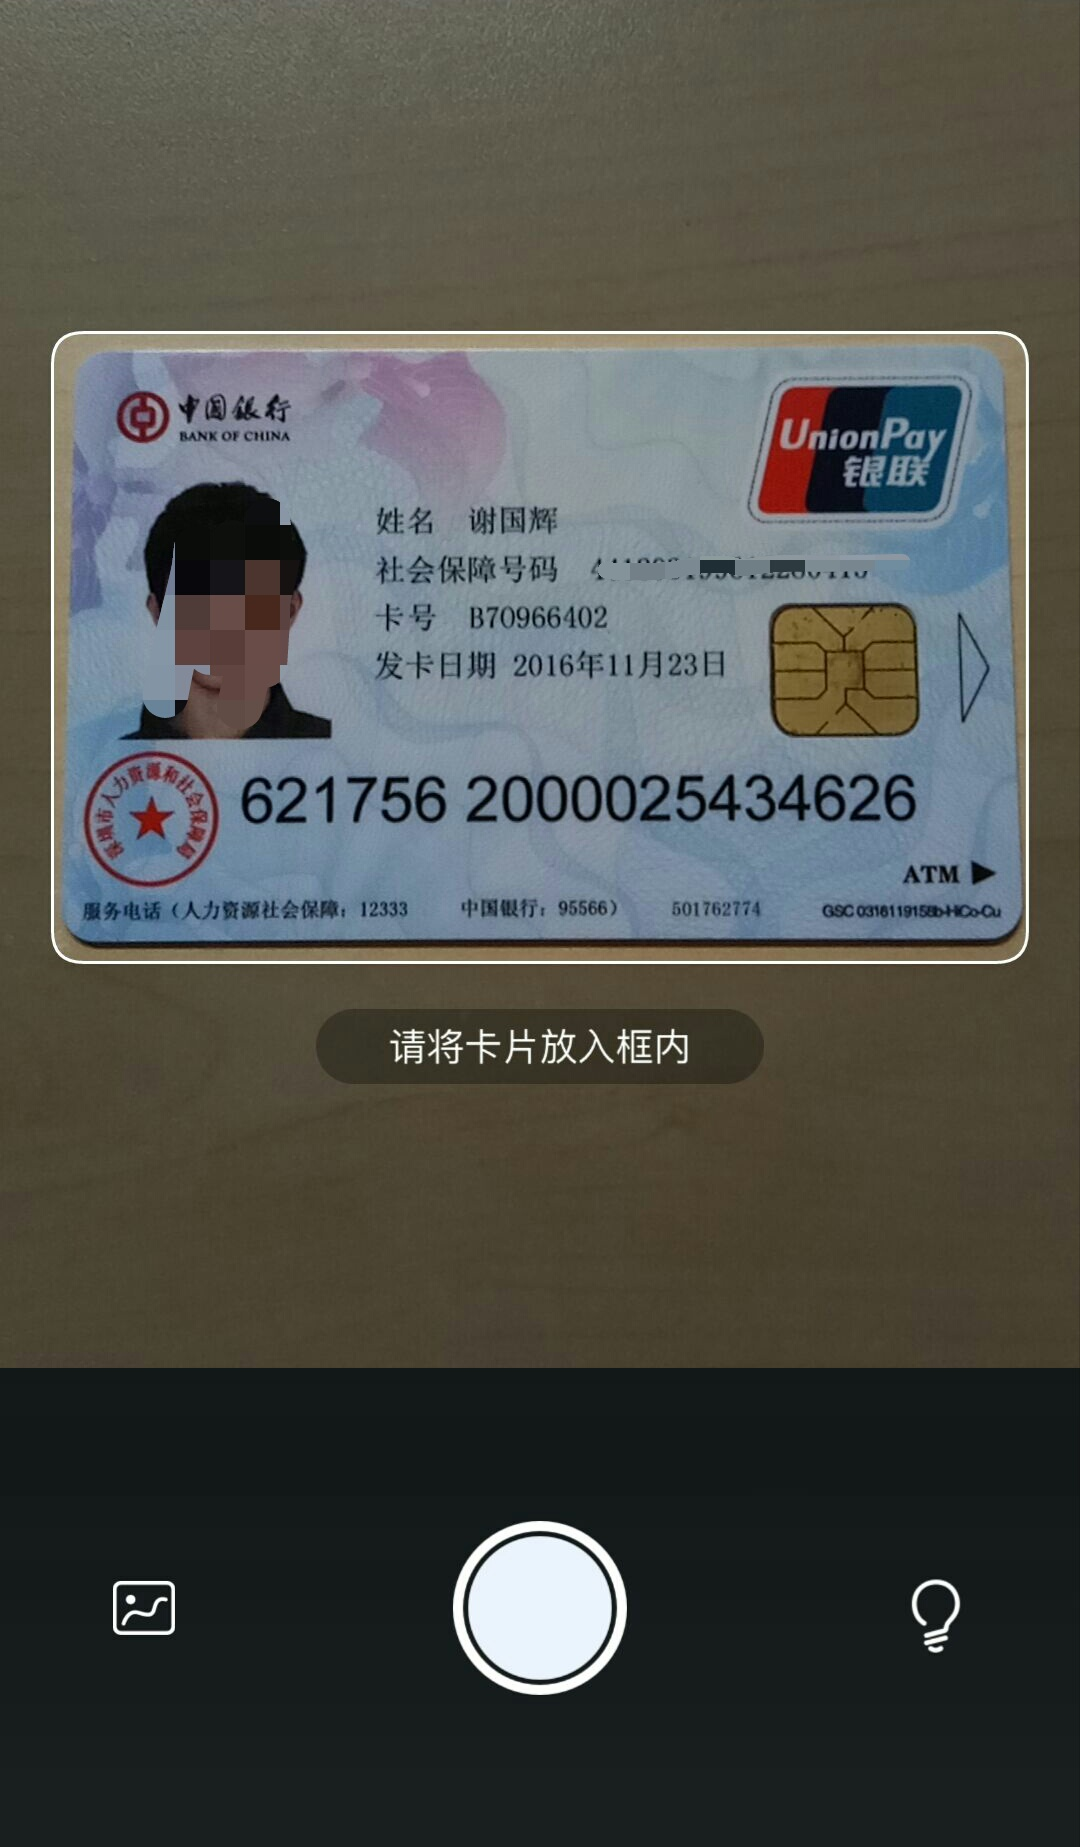
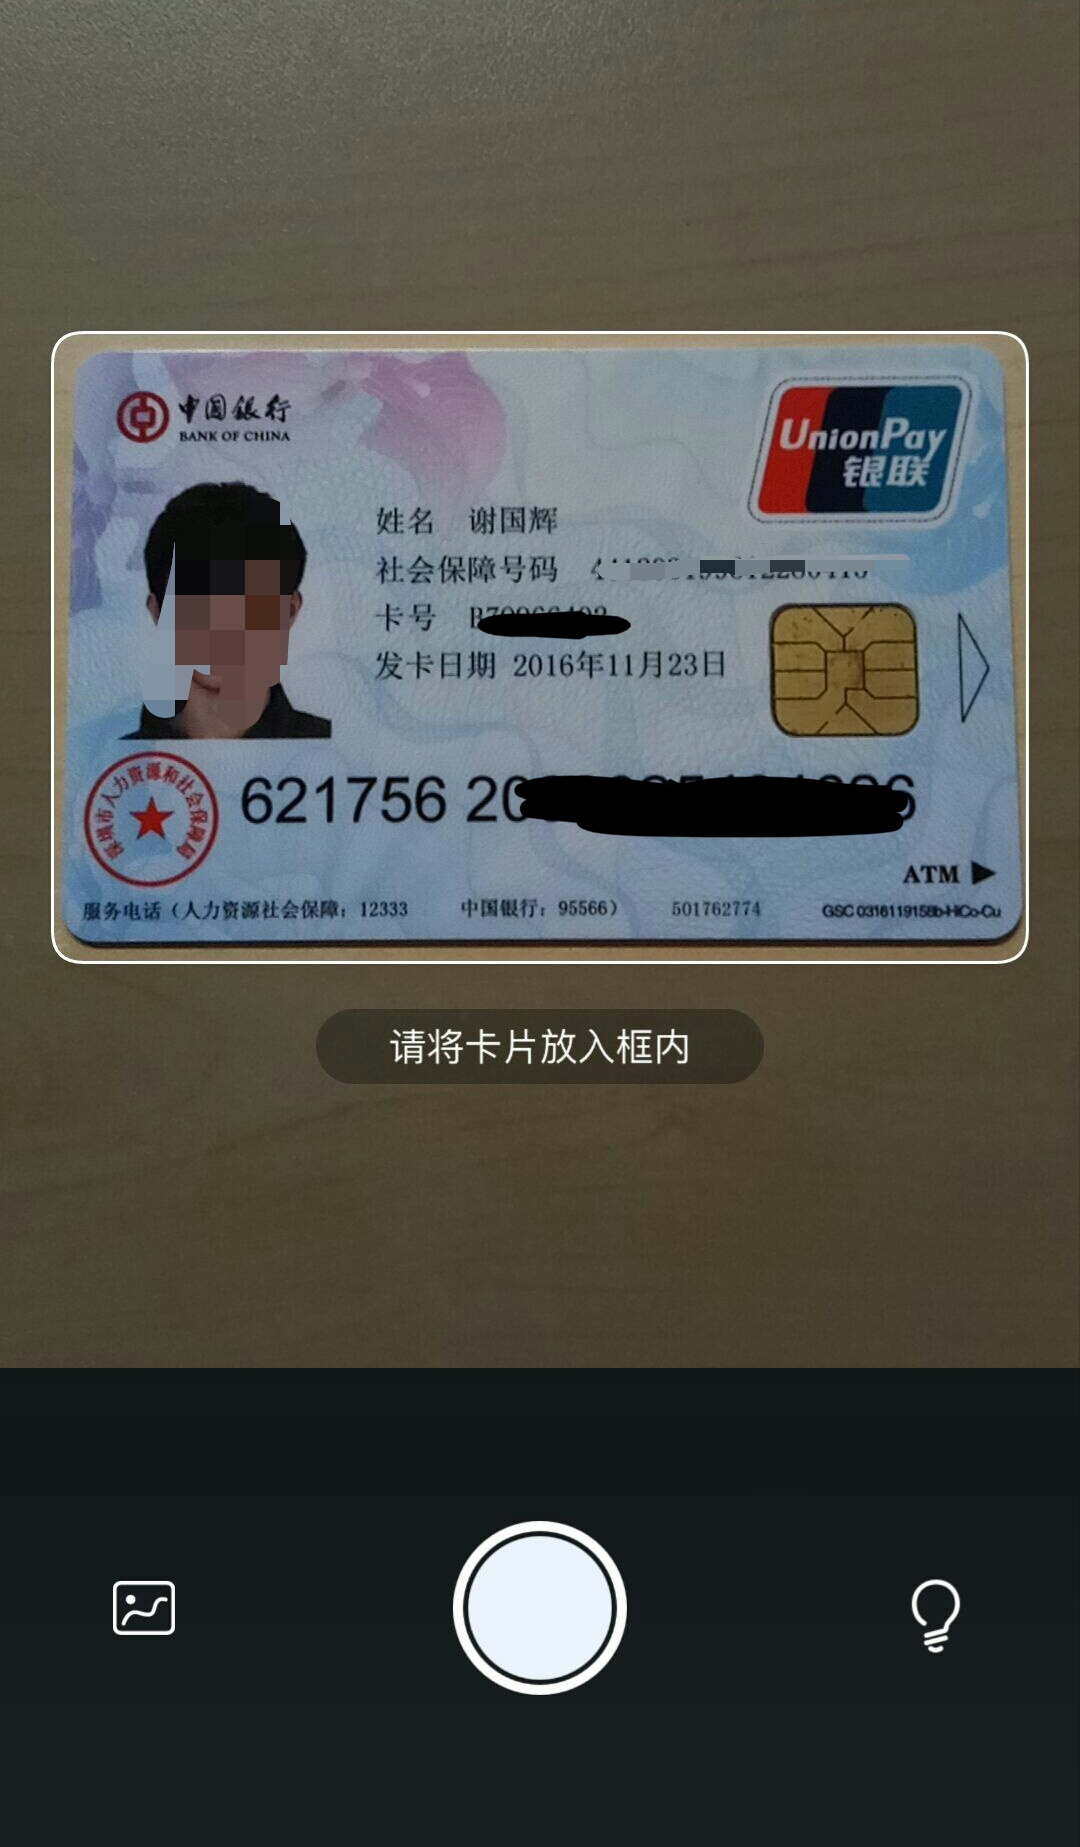
修改readme.md图片路径,给图片重要信息打马赛克

Changed region(s): [[0.4889, 0.4012, 0.8556, 0.4629], [0.4583, 0.3086, 0.5806, 0.3703]]

diff --git a/readme.md b/readme.md
@@ -54,7 +54,7 @@
 #### 银行卡识别
 ![](picture/bankcard.jpg){:height="30%" width="30%"}
 
-![](picture/bankcard_re.png){:height="30%" width="30%"}
+![](picture/bankcard_re.jpg){:height="30%" width="30%"}
 
 #### 身份证识别
 ![](picture/idcard.png){:height="30%" width="30%"}
